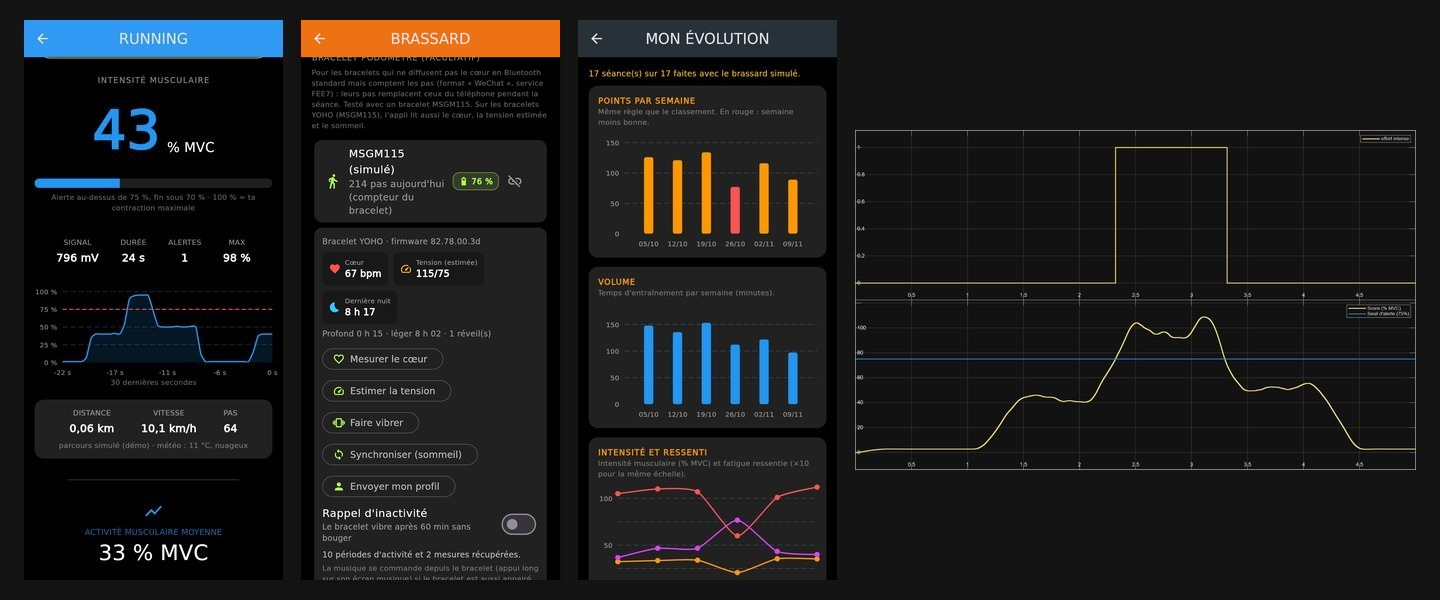
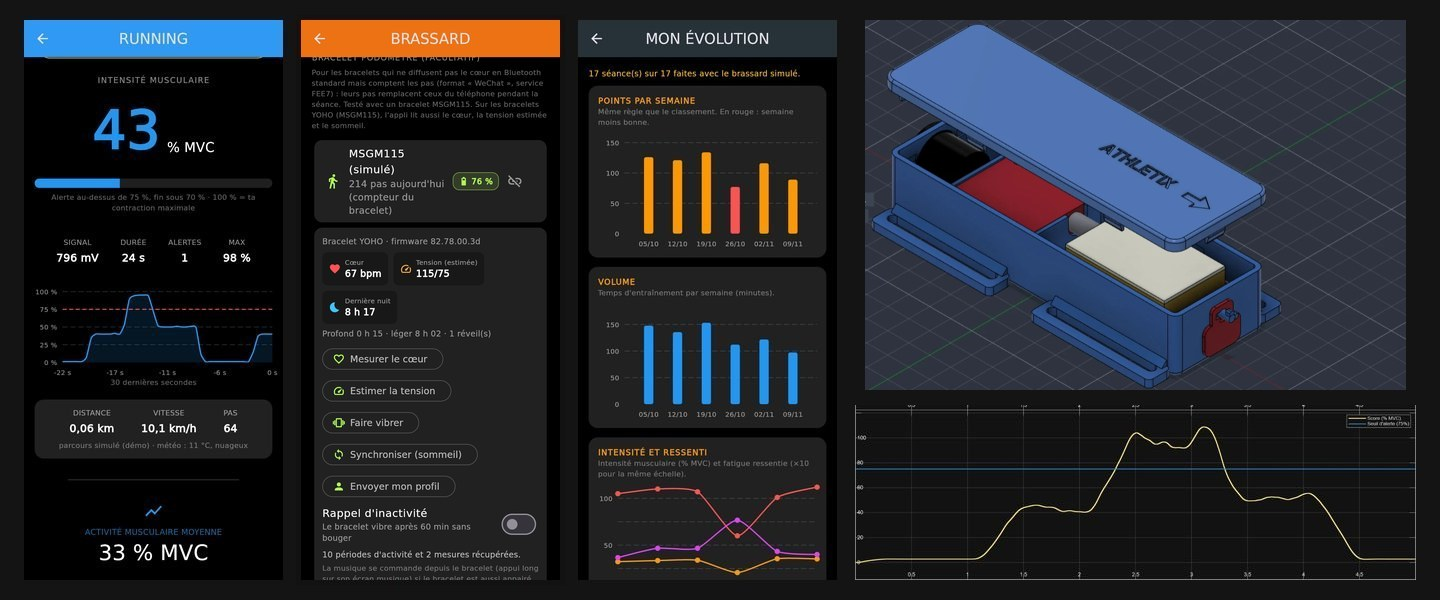
Carte Athletix-Data : image avec le boîtier sous Fusion 360 ; fiche projet à jour

diff --git a/index.html b/index.html
@@ -809,7 +809,7 @@
           </div>
         </article>
         <article class="project-card project-card--wide" data-tags="electronique sante embarque">
-          <div class="card-media card-media--fit"><img src="assets/projets/athletix-data.jpg" alt="Trois écrans de l'application Athletix-Data (séance en direct, montre MSGM115 reliée, évolution) et résultat de la simulation Simulink du brassard EMG" data-i18n-attr="alt:p9.img" width="1440" height="600" loading="lazy" decoding="async"></div>
+          <div class="card-media card-media--fit"><img src="assets/projets/athletix-data.jpg" alt="Trois écrans de l'application Athletix-Data (séance en direct, montre MSGM115 reliée, évolution), le boîtier du brassard sous Fusion 360 et le résultat de la simulation Simulink" data-i18n-attr="alt:p9.img" width="1440" height="600" loading="lazy" decoding="async"></div>
           <div class="card-top">
             <span class="card-type" data-i18n="tag.electronics">Électronique</span>
             <span class="card-date" data-i18n="p9.date">Juin 2026</span>

diff --git a/traduction-anglais.js b/traduction-anglais.js
@@ -382,7 +382,7 @@ window.I18N_EN = {
   'p20.img': 'Bearing verdict and life curve',
   'p21.img': 'Wing deformed shape coloured by stress, with support reactions',
   'p7.img': 'Pharmacy back-office dashboard (demo)',
-  'p9.img': 'Three Athletix-Data app screens (live session, connected MSGM115 watch, progress) and the Simulink simulation result of the EMG armband',
+  'p9.img': 'Three Athletix-Data app screens (live session, connected MSGM115 watch, progress), the armband enclosure in Fusion 360 and the Simulink simulation result',
   'p8.img': 'SantéConnect patient area (demo)',
   'p6.img': 'Hand tracking demo page',
   'p10.img': 'Reference signal, distorted signal and FFT spectrum (demo)',

diff --git a/FICHE-PROJET.md b/FICHE-PROJET.md
@@ -132,7 +132,7 @@ Images des cartes (nov. 2026, demandé par Valentin pour alléger) : chaque cart
 - [x] Bulle « Énergie » (nov. 2026, demandée par Valentin ; clé tag.energy, data-filter « energie », placée après Électronique) : génératrice d'éolienne (p38) + bobine Tesla (p17). Compteur de projets en haut à gauche de la barre : proposé puis REFUSÉ par Valentin (ne pas le remettre).
 - [x] Nov. 2026 (demandé par Valentin) : bulle « Embarqué » (clé tag.embedded, data-filter « embarque », DERNIÈRE après Web) = projets avec code sur microcontrôleur : transporteur (p32), balnéo (p33), truites (p35), maison connectée (p43), éolienne (p38), Athletix ESP32 (p9). Titre « 02 Projets » : nombre total de cartes au bout de la ligne (discret, gris mono, calculé par script.js via data-count, aligné sur le bord droit de la grille) — pour Valentin, pas d'intitulé.
 - [ ] Athletix-Data = en réalité projet de groupe MESPI (EPISEN, 4 membres, fév.–juin 2026) ; version FINALE = brassard EMG : MyoWare 2.0 + Link Shield + SparkFun Thing Plus ESP32-S3 + LiPo 1500 mAh + BLE + appli Flutter (devis final et compte rendu jalon 4 fournis par Valentin, nov. 2026). Nov. 2026, DÉCISION DE VALENTIN (« c'est un truc propre ») : les NOMS de l'équipe sont affichés (exception à la règle « ne jamais nommer ») : Valentin Auger, Maxence Olivier, Othmen Al Bydeoi (3 = couverture du compte rendu et devis ; Akram Boutabaa, cité dans le corps du compte rendu, RETIRÉ car absent de la couverture). Fait : README du dépôt (équipe + rôles, brassard final, historique PPG, hardware/simulation-emg/ avec figure + limites + corrections prévues ; version CORRIGÉE vérifiée dans le .slx du Drive (dossier « AthletixData_EMG_Simulation(1).slx », décompressé) : Ts 0,0005, Cov 7,1e-9, passe-bande, Lookup 0,95, gain 1000, secteur 0,00008, Relay 75/70 ; page simulation-emg/ réécrite (figure resultat-simulation-corrigee.png recadrée d'une capture, ancienne figure gardée en historique) et image de carte mise à jour ; fichier .slx FINAL publié (hardware/simulation-emg/AthletixData_EMG_Simulation.slx, R2026b, reconstruit depuis le dossier décompressé du Drive, tailles vérifiées) ; présenté comme une EXPÉRIMENTATION (modèle d'essai, pas une mesure sur le brassard), à la demande de Valentin ; figure en meilleure résolution + schema-modele.png ajoutés le 12 nov. 2026) ; README : encadré « Rencontre avec une patiente atteinte de sclérose en plaques » (FR/EN) : entretien avec une patiente (JAMAIS nommée) à l'initiative d'un médecin retraité spécialiste de la SEP ; ses suggestions n'avaient pas été notées → pistes RÉDIGÉES APRÈS COUP et dites comme telles (fatigue / fréquence médiane, chaleur, calibration quotidienne, spasmes et asymétrie, accessibilité, carnet pour les soignants) + « pas un dispositif médical ». Nom du médecin : JAMAIS publié (décision FINALE de Valentin, 13 nov. 2026 : il n'a aucun moyen de le contacter ; ne plus le proposer). Contributeur « claude » encore affiché dans la barre latérale du dépôt alors que l'historique est propre (API contributors = Valentin seul, 7 commits) : cache GitHub ; le changement de branche par défaut est refusé à la session cloud → FAIT par Valentin le 12 nov. 2026 (branche par défaut recalcul puis main, branche recalcul supprimée) : « claude » a disparu de la liste ; seul le chiffre « 2 » reste (cache GitHub, l'API elle-même était en retard : 7 commits comptés sur 10) → attendre, sinon support GitHub. 12 nov. 2026, relecture de l'appli transmise par Valentin → corrigé et démo recompilée (Flutter 3.47.9 installé dans /opt/flutter-dl de la session ; canvaskit chargé depuis gstatic comme avant ; balises og: remises à la main dans docs/index.html après chaque build) : conseils sans contradiction (nombre de séances UNIQUEMENT dans la carte « Rythme » : niveau + fréquence déclarée ; Débutant 2–3, Intermédiaire 3–4, Pro 4–6), poids/taille utilisés (IMC avec virgule, protéines 1,6–2 g/kg, alerte perte de poids si IMC < 18,5), questionnaire PRÉ-REMPLI à la mise à jour, « Changer de compte » → écran de connexion / « Se déconnecter » → page d'accueil, WorkoutSession supprimé, moteurs GPS/gyro remplacés par des mesures EMG (valeurs d'exemple), icône batterie par paliers, descriptions des catégories générées depuis la liste (aviron, apnée déplacée en Milieu aquatique). Testé avec Playwright. Schéma « câblage présumé » (hardware/cablage-presume.svg + .png, rendu par Playwright) ajouté au README (partie FR, au-dessus du schéma Simulink), dessiné d'après la LISTE des composants du devis (le devis lui-même n'est PAS publié) : électrodes SEN-12969 → MyoWare 2.0 + Link Shield → jack 3,5 mm → Thing Plus ESP32-S3 (A0, 3V3, GND) ; LiPo 1500 mAh → DS12LR → prise JST ; BLE → téléphone ; « non testé, matériel pas encore reçu » ; inverseurs GR33/GA55 et résistances 150 Ω non représentés (usage inconnu) ; câble Qwiic = I2C, ne transporte pas le signal. 12 nov. 2026 : contribution d'Othmen (Othmen94, collaborateur) : architecture BLE/GATT, MCD/MLD/MCT, migration SQL, save_seance/save_calibration.php, brassard simulé dans l'écran de séance, firmware de test faux-brassard-ble, 13 tests ; relue (compile, tests OK, aucun secret), PR #1 FUSIONNÉE (avance rapide poussée par la session, le bouton de contournement ne marchait pas chez Valentin) ; Othmen a remplacé son Gmail par son adresse noreply avant la fusion ; démo recompilée. Verrou : exception « Othmen/* » GARDÉE volontairement (décision de Valentin) pour qu'Othmen puisse proposer d'autres branches othmen/… ; main et le reste restent verrouillés, seul Valentin (admin) fusionne. Branche othmen/architecture-ble supprimée par Valentin. Contributeurs = 2 (Valentin + Othmen), voulu. Images de la simulation affichées UNE fois sur la page principale (partie FR), pas dans la partie EN (demandé par Valentin), toujours sur la page simulation-emg/ et carte p9 (« Juin 2026 », titre brassard EMG, « Ma partie… », clé projects.contextTeam « Projet de groupe · EPISEN, 3 étudiants », image = écrans de l'appli + figure Simulink). 12 nov. 2026 (soir), à la demande de Valentin (« fais les 17 tâches sans le matériel ») : FAIT 11/17 → API testée sur MariaDB réelle (tests/api/test_api.sh, 41 vérif., garde ATHLETIX_TEST=1 car il vide la base), get_seances.php, score classement (10 + min × moy/50, 30 j, simulées exclues — PROPOSITION à valider), migration 002 (DROP performances + hardware_status, get_hardware lit brassards, champ batterie), BrassardBle (flutter_blue_plus 2.3.14, License.nonprofit, web + Android), écrans Brassard / Calibration / Mes séances / consentement (shared_preferences 2.5.6), projet android/ (fr.athletixdata.athletix_data, permissions BLE, cleartext pour XAMPP) — APK NON compilé (dl.google.com bloqué), firmware final hardware/firmware-brassard/ (calcul_emg.h testé g++ 27 vérif. ; .ino vérifié avec imitations, PAS compilé ESP32 : outils Arduino bloqués), fiches SparkFun vérifiées via recherche web (A0 = GPIO10, MAX17048 0x36 GPIO8/9, Link Shield interrupteur ENV, jack pointe/bague/corps, câble TRS vendu à part) → faux brassard corrigé GPIO1 → GPIO10, schéma mis à jour, hardware/PROTOCOLE-DE-TEST.md, liste de pièces à compléter. Décision : web pour la démo, Android (Android Studio) pour le vrai brassard. Restent : valider le score, tester faux brassard sur ESP32, compléter la commande, boîtier, Gantt (Maxence), rapport jalon 1 (compte rendu jalon 4 de 1re année fourni par Valentin, en scratchpad mespi/, NE PAS publier : noms dont Akram, 4 membres). ⚠ Le PDF « compte rendu jalon 4 » de Maxence n'est PAS un rendu : brouillon personnel fait à l'arrache pour comprendre le projet (dit par Valentin) ; le VRAI jalon 4 = le fichier Excel du devis. Ne pas s'en servir comme référence ni pour attribuer des tâches (son contenu technique vient de Valentin). MPM = Valentin (confirmé), Gantt = Maxence. Pièces manquantes (câble jack, embase, électrodes) : commande déjà passée, impossible d'ajouter → solutions documentées sans achat : câble audio stéréo 3,5 mm TRS recyclé, coupé et soudé (kit WTS100 du devis), électrodes ECG à pression standard (pharmacie / salle de TP). README : lien « 📋 Feuille de route » tout en haut (FR + EN). Feuille de route §4 « Compléter l'application » (GPS, accéléromètre, météo, ceinture cardio BLE 0x180D car l'EMG biceps ne mesure pas le cœur, graphiques, fatigue, contexte de séance, tableau des pistes SEP : 2/7 faites) ; proposé à Valentin de coder la partie graphiques + contexte en premier. FAIT le 12 nov. 2026 (soir, « on va tout faire d'un coup ») : §4 codé (commit c2bbcc8) = courbe en direct 30 s, détail de séance (courbe 5 s, zones, contractions, GPS, cœur, météo, ressenti, indice de fatigue EXPÉRIMENTAL expliqué), Mon évolution (points/volume par semaine, intensité + fatigue ressentie, records, semaines moins bonnes ≥ 15 % avec causes tirées du ressenti), ressenti après séance (fatigue/douleur 0–10, sommeil, commentaire), GPS + pas (geolocator, sensors_plus ; parcours INVENTÉ en démo, dit), météo Open-Meteo (CC BY 4.0, position arrondie ~1 km), ceinture cardio 0x180D (écran Brassard), Réglages (grands caractères, vibration, voix flutter_tts, mode adapté 60/55 %, pause 10 min, chaleur > 25 °C), export CSV soignants (share_plus) ; migration 003, API 49 vérif., 47 tests Flutter ; démo : 6 semaines fictives dont la 4e moins bonne ; testé dans le navigateur seulement (GPS/capteurs/vibration à essayer sur Android). PUIS (12 nov. 2026, soir, « rendre l'application quasiment finie ») : commits 1e0347e + 5bd2161 = natation (firmware 1.1 : commandes 0x05/0x06, caractéristique abad0005 « résumé hors ligne », arrêt auto après 5 min < 10 %, effacement seulement après enregistrement ; copie Dart du calcul = MÊMES octets que le C++, testé ; brassard simulé accéléré ×60 ; prototype NON ÉTANCHE, dit partout, test à sec ajouté au protocole étape 7), tracé GPS coloré par l'intensité (sans les 200 premiers/derniers mètres, aucun service de cartes) + vitesse/intensité le long du parcours, séries en muscu, envoi différé sans réseau (client_uuid, fin_il_y_a_s), objectif de la semaine sur l'accueil, carnet PDF (package pdf, Apache 2.0) + CSV, RGPD (export_donnees.php, supprimer_compte.php, écran « Mon compte et mes données »), migration 004, tests GitHub Actions (application, API sur MariaDB 11.4, firmware) VERTS + badge, tools/build_web.sh (anti-cache ?v= : Valentin croyait que la démo n'était pas à jour = cache navigateur), démo datée jusqu'au jour même (semaine en cours visible). Compteurs : 67 tests Flutter, 68 vérif. API, 41 firmware. FEUILLE-DE-ROUTE.md REFAITE (où en est le projet, ce qui est fait, reste sans matériel, réception, finaliser, plus tard, pistes SEP, répartition) ; README à jour (FR + EN, 5 nouvelles captures). Rapport du jalon 1 : à rendre le LUNDI 16 NOV. 2026 (Valentin veut le faire après, pas tout de suite). ENSUITE (12–13 nov. 2026, Valentin : « je te valide tout ») : règle de score VALIDÉE (docs + code) ; schéma de câblage complété (capteur posé sur le biceps, électrodes MID/END clipsées sous la carte d'après le guide SparkFun, électrodes ECG standard, câble audio recyclé 3 contacts, ⚠ polarité JST, pas étanche) ; APK compilé et publié par GitHub Actions (workflow apk.yml, release « apk » : github.com/Valentin-Auger-Laboratoire/athletix-data/releases/tag/apk, 59 Mo, clé de debug ; variable de dépôt API_BASE_URL pour un vrai serveur) ; Gantt REFAIT par la session (gestion-projet/gantt.xlsx modifiable + 2 PNG : année 1 = plan A–I du Gantt de Maxence + statut, année 2 sept. 2026 → janv. 2027 ; livraison et soutenance À CONFIRMER, soutenance supposée 29 janv. 2027) ; relecture de sécurité (doublon simultané rattrapé, isolation entre comptes testée, injection CSV neutralisée, limites connues écrites dans INTEGRATION.md) → 77 vérif. API, 68 tests Flutter ; carte p9 du portfolio mise à jour (texte FR/EN + image : séance, parcours, évolution + figure Simulink). Le nom du médecin ne sera JAMAIS publié. 13 nov. 2026 (« vas-y ») : mesures/ = comparaison automatique vrai brassard / simulation (firmware JOURNAL_SERIE → lignes « M,ms,mV,RMS,%,alerte » sur l'USB, capturer.py, comparer_simulation.py : alignement par corrélation sur tout l'enregistrement, critères du protocole, figure + rapport ; exemple sur données SIMULÉES de la sortie ENV ; 12 tests Python dans la CI) ; gestion-projet/analyse-des-risques.md (G×O×D ; priorités : eau 32, PC portable DÉBRANCHÉ DU SECTEUR pendant une capture USB avec électrodes 24, polarité batterie 18, données/jeton 18) ; vidéo de démo media/demo-application.mp4 + .gif (70 s, dans le README FR) ; bug trouvé par la vidéo et corrigé : après enregistrement, la séance est ouverte par son numéro (getSeance(id)) et non « la plus récente » (une natation longue n'était pas la première) → 69 tests Flutter. Puis : comparaison affichée sur la page principale avec « Outil réalisé par Valentin Auger » (demandé) ; MODE D'EMPLOI 2 pages (mode-emploi/mode-emploi.pdf, généré par tools/mode_emploi.dart avec le package pdf, même mise en page que le carnet ; sécurité, pose des électrodes avec illustration pose-electrodes.svg, calibration, séance, natation à sec, carnet soignant, problèmes fréquents ; aperçus des 2 pages dans le README FR, crédité à Valentin). Valentin veut voir chaque nouveauté DIRECTEMENT sur la page principale du README (pas seulement en lien) et que ce soit crédité à son nom. 13 nov. 2026 (validé 1 à 3) : menu « Mode d'emploi » dans l'appli (url_launcher 6.3.1, ouvre le PDF sur GitHub ; <queries> https dans le manifeste) ; hardware/boitier/ = cahier des charges (Thing Plus 58,4 × 22,9 ; MyoWare et Link Shield 37,6 × 35,9 ; batterie THYM-BAT 47 × 29 × 10 mm JST-PH avec protection ; DS12LR = interrupteur rond Ø 20,5 mm, 16 mm de profondeur, AVEC VOYANT → les résistances 150 Ω du devis servent sans doute au voyant ; boîtier ≈ 72 × 66 × 27 mm, interrupteur sur la paroi à côté de la batterie ; version étanche : joint, presse-étoupe PG7, interrupteur intérieur ou ILS ; cotes « à vérifier », gotronic.fr bloqué par le proxy) + implantation.svg/png à l'échelle ; hardware/fiche-de-test.pdf générée DEPUIS le protocole par tools/fiche_test.dart (cases à cocher, colonnes vides, champs date/testeur/n° de série, étapes insécables) ; protocole corrigé (firmware 1.1.0). Version anglaise de l'appli : REFUSÉE. 13 nov. 2026 (après-midi, « un max de code » sans ESP32) : FIRMWARE 1.2 = source RAW (interrupteur OUTPUT du Link Shield sur RAW, vérifié dans le guide SparkFun), 2 kHz, FFT maison + fréquence médiane (calcul_fatigue.h, tâche FreeRTOS sur le cœur 0, files FreeRTOS), caractéristique abad0006, commande 0x07, erreur 5 = interrupteur resté sur ENV ; appli : choix « Brut + fatigue » (écran Brassard), fatigue en direct, baisse en fin de séance (suivi_fatigue.dart, moindres carrés), courbe dans le détail, fatigue par semaine dans l'évolution, colonnes PDF/CSV ; serveur migration 005 ; copie Dart = même MDF que le C++ (142,21 Hz) ; FIRMWARE COMPLET EXÉCUTÉ SUR ORDINATEUR avec imitations des bibliothèques ESP32 (tests/firmware/imitations/, test_firmware_complet.cpp, aussi sous ThreadSanitizer, qui a révélé un échange non protégé entre cœurs, corrigé) ; APPAIRAGE CHIFFRÉ (securite.h, APPAIRAGE_SECURISE = 0 par défaut, code 6 chiffres tiré au hasard en NVS, commandes série CODE/OUBLIER/NOUVEAU, appli : saisie du code + createBond, SECURITE.md, étape 9 du protocole) ; FOND DE CARTE OpenStreetMap (projection écrite à la main, désactivé par défaut, tile.openstreetmap.org bloqué dans la session → vérifié avec une fausse tuile) ; LIMITE DES ESSAIS côté serveur (migration 006) ; mesures/analyser_fatigue.py ; fiche de test = 4 pages (étapes 8 fatigue et 9 appairage). Compteurs : 92 tests Flutter, 93 vérif. API, firmware 42 + 34 + 15 + 38. README : sections « Mesurer la fatigue » et « Liaison Bluetooth chiffrée » avec captures, créditées à Valentin. Carte p9 du portfolio complétée (fatigue + appairage). Base MariaDB de la session réinitialisée (fichiers corrompus après la mise en veille). 13 nov. 2026 : Valentin considère le code d'Athletix-Data TERMINÉ en attendant le matériel ; second brassard (comparaison gauche/droite) NON RETENU (pas assez de matériel commandé) → ne plus le proposer. Prochaine étape : rapport du jalon 1 (à rédiger à partir du 14 nov., rendu lundi 16 nov.). 13 nov. 2026 (soir) : ajouts « prêt pour le vrai brassard » : reconnexion automatique BLE pendant une séance (30 s, relance DEMARRER), avertissements du brassard en séance (batterie + vibration, saturation, interrupteur ENV), rappel de calibration avant la séance (non calibré depuis l'allumage ou > 4 h), MONTRE de Valentin : reliée comme une ceinture si elle diffuse sa FC en Bluetooth standard 0x180D (aide par marque dans l'écran Brassard ; Apple/Galaxy Watch/Fitbit : pas sans appli) — montre de Valentin = bracelet MSGM115 (« YOHO » au démarrage, puce Maxscend, famille « 115 Plus ») : PAS de service cardio standard ; services HID clavier, FD00, FFE0, FEE7 (WeChat), CC00 ; PAS décodés (FEA1 = 01 + 3 octets LE, 80 pas vérifiés) et codés (montre_podometre.dart, section « Bracelet podomètre » de l'écran Brassard, pas du bracelet prioritaires pendant la séance) ; CŒUR et MUSIQUE non décodés : la montre ne les envoie pas sans son appli d'origine (FD02 = paquet fixe 10-01-4B-2A-04-02-00-78-00-00 à la connexion) → prochaine étape possible : journal HCI Bluetooth d'Android + appli d'origine (nom à confirmer, sans doute « YOHO Sports ») ; tension « mmHg » = estimation, pas une mesure ; protocole étapes 6.5–6.9 ; 99 tests Flutter. 13 nov. 2026 (nuit) : Yoho Sports installé par Valentin sur son Huawei P40 lite (paquet com.uthink.ring) ; journal HCI introuvable sur Huawei (zone protégée) → APK récupéré par adb et DÉCOMPILÉ AVEC SON AUTORISATION EXPLICITE (compatibilité, directive 2009/24/CE art. 6 ; APK seulement dans le scratchpad, RIEN du code d'origine publié) : service CC00 (CC02 infos, CC03 batterie, CC04 messages, CC06 commandes ; FD00 = OTA) → protocole_yoho.dart + montre_yoho.dart + panneau dans l'écran Brassard (cœur 0A 01, tension estimée F1 03 14 01, sommeil via synchro F4, vibration 08 01, profil F1 01, inactivité 07) + cœur du bracelet en séance sans ceinture ; 15 tests (114 Flutter), architecture/BRACELET-YOHO.md, commit 34a49a7 ; PAS ENCORE ESSAYÉ avec le bracelet (à faire avec l'APK). Musique = clavier Bluetooth HID (appui long), rien à coder. 13 nov. 2026 : README d'athletix-data = section « 📄 Documents pour les essais (réalisés par Valentin Auger) » JUSTE APRÈS le tableau de l'équipe (mode d'emploi, fiche de test, cahier des charges du boîtier, chacun avec image) + ligne de liens tout en haut (Valentin ne les trouvait pas quand ils étaient plus bas) ; feuille de route mise à jour (version anglaise « non retenue », boîtier = cahier des charges fait, modèle Fusion 360 à faire). Diapos de soutenance : bien plus tard (jalons 1, 2, 3 puis jalon final = soutenance) → la date « soutenance 29 janv. 2027 » du Gantt est une supposition à corriger quand Valentin aura les dates des jalons. 13 nov. 2026 : schéma refait avec le câble jack DESSINÉ (prise femelle du Link Shield, fiche mâle, câble, 3 soudures A0/3V3/GND, zoom sur la fiche) — Valentin avait remarqué qu'il était seulement écrit ; Gantt affiché aussi dans le README principal (partie FR, liens gardés) ; hébergement de l'API : Valentin le fera sur son PC portable avec XAMPP + ngrok (comme pour la téléconsultation) → section « Héberger l'API sur son PC » du README (domaine fixe gratuit ngrok, variable de dépôt API_BASE_URL, relancer le workflow APK). 13 nov. 2026 (nuit) : batterie de la montre et de la ceinture cardio (service standard 0x180F ou CC03 YOHO) sur l'accueil, les cartes et en séance, alerte à 15 % (119 tests Flutter) ; documents remis à jour : Gantt (firmware 1.2, montre, boîtier « fichier à fournir par Valentin »), mode d'emploi (section 6 montre), protocole + fiche de test (étape 10 montre, faisable sans brassard ; fiche = 5 pages), feuille de route, analyse des risques (montre), nouvelle vidéo de démo (montre + fatigue), carte p9 du portfolio (écran montre à la place du parcours), compte rendu du jalon 1 (ligne montre, documents, à faire, Gantt). Boîtier Fusion 360 : EN ATTENTE du fichier de Valentin (export STEP/STL du design « v1 »). Restent (plus tard) : vraie fatigue (RAW), capteur de température, 2e brassard, fond de carte, HTTPS/appairage, version anglaise. FEUILLE-DE-ROUTE.md (12 nov. 2026, demandée par Valentin : matériel commandé par l'école seulement en nov. alors que demandé en juin, livraison dans 1 mois au plus tôt) = état du projet, à faire SANS le matériel, à la réception, pour finaliser, répartition proposée ; résumé « Où en est le projet » dans le README (FR + EN). Gantt = Maxence, MPM = Valentin. RÔLES (dit par Valentin, 12 nov. 2026) : VALENTIN = CHEF DE PROJET (pas Maxence, qui ne faisait rien) + tout le reste (application Flutter, API PHP/MySQL, câblage, ESP32, documentation) ; Maxence = uniquement la simulation Simulink ; Othmen = architecture BLE et ses ajouts du dépôt. README (tableau équipe FR/EN) et carte p9 (FR/EN, « dont j'ai été le chef de projet », brassard simulé) mis à jour. Simulation Simulink (AthletixData_EMG_Simulation.slx, Drive) faite par MAXENCE OLIVIER (dit par Valentin, 12 nov. 2026) : créditée dans le README (ligne de Maxence dans le tableau de l'équipe, paragraphe du brassard, page simulation-emg/, FR et EN). Revue faite (nov. 2026) : bruit Ts 0,1 s (escalier 10 Hz, pics dus au hasard) → Ts 0,0005 + passe-bande 20–450 Hz + profil d'effort (Lookup) + gain MyoWare ×1000 ; alerte = intensité (pas fatigue) → Relay 75/70 ; MVC 1,85 V supposée ; corrections du compte rendu (fatigue, chiffres, ESP32 DevKit vs S3, 1000 vs 1500 mAh, Link Shield ≠ I2C). JAMAIS publier le devis ni le compte rendu (noms des coéquipiers), ni les captures MATLAB Online (identifiant de compte).
-- [x] Boîtier d'Athletix-Data (14 nov. 2026) : modèle CadQuery fait par la session (hardware/boitier/modele/boitier.py, fichiers STEP/STL, notice-boitier.pdf, images), crédité à Valentin. Un seul boîtier long et fin, SANS VIS (rien de commandé) : couvercle à 7 clips, carte tenue par pions + doigts du bac, jupe + bouchon USB-C (retenu par un pion à tête fendue en 4, idée de Valentin) contre la pluie, PAS étanche ; interrupteur au bout côté coude ; 2 brassards du devis (40 × 5 cm, scratch) par-dessus le couvercle, passants symétriques renforcés ; boucle 3 barres de secours ; pose : flèche/USB vers l'épaule, électrodes sous le boîtier ; 2 versions (DS12LR / GR33-GA55). Mode d'emploi et fiche de test à jour. Étude RDM FAITE (14 nov. 2026, hardware/boitier/rdm/ + page interactive web/boitier-rdm/ publiée avec la démo : valentin-auger-laboratoire.github.io/athletix-data/boitier-rdm/ ; web/ est copié dans docs/ par le build Flutter) : 3 points faibles du premier modèle corrigés (clip 1,2→1,0 mm + bec 0,65 ; barre du passant 1,2×3 → 4×3,5 mm ; pion fendu → baïonnette à détrompeur, 2 ailes, bouchon enfilé retourné AVANT de poser le couvercle) ; tests Python/JS dans la CI. Valentin fera ensuite les captures Fusion 360 de la version finale (à publier comme SES vues). Ancienne note : Sur le SSD : le dossier myoware_pregnancy est un modèle d'une autre personne (SolidWorks 2017, 2019, GrabCAD ?) → NE PAS publier ; « v1 (Assemblage).step » = 2,8 Ko, vide (composants liés). Son vrai travail est dans le cloud Autodesk (« v1 », « v1 (Assemblage) », « ESP32 dev Kit v1 », 15 mai 2026) : rompre les liens ou exporter le design « v1 » seul (STEP > 100 Ko + STL).
+- [x] Boîtier d'Athletix-Data (14 nov. 2026) : modèle CadQuery fait par la session (hardware/boitier/modele/boitier.py, fichiers STEP/STL, notice-boitier.pdf, images), crédité à Valentin. Un seul boîtier long et fin, SANS VIS (rien de commandé) : couvercle à 7 clips, carte tenue par pions + doigts du bac, jupe + bouchon USB-C (retenu par un pion sans ficelle, idée de Valentin ; d'abord tête fendue en 4, remplacé par une baïonnette après la RDM) contre la pluie, PAS étanche ; interrupteur au bout côté coude ; 2 brassards du devis (40 × 5 cm, scratch) par-dessus le couvercle, passants symétriques renforcés ; boucle 3 barres de secours ; pose : flèche/USB vers l'épaule, électrodes sous le boîtier ; 2 versions (DS12LR / GR33-GA55). Mode d'emploi et fiche de test à jour. Étude RDM FAITE (14 nov. 2026, hardware/boitier/rdm/ + page interactive web/boitier-rdm/ publiée avec la démo : valentin-auger-laboratoire.github.io/athletix-data/boitier-rdm/ ; web/ est copié dans docs/ par le build Flutter) : 3 points faibles du premier modèle corrigés (clip 1,2→1,0 mm + bec 0,65 ; barre du passant 1,2×3 → 4×3,5 mm ; pion fendu → baïonnette à détrompeur, 2 ailes, bouchon enfilé retourné AVANT de poser le couvercle) ; tests Python/JS dans la CI. 13 captures Fusion 360 de Valentin (version finale) publiées dans hardware/boitier/images/fusion/ (10 sur la page principale du README), créditées à lui ; section « Étude RDM (réalisée par Valentin Auger) » dans le README ; carte p9 : phrase boîtier + RDM (FR/EN) et image avec sa vue Fusion 360 à la place de la moitié haute de la figure Simulink ; Gantt / feuille de route / risques à jour. Ancienne note : Sur le SSD : le dossier myoware_pregnancy est un modèle d'une autre personne (SolidWorks 2017, 2019, GrabCAD ?) → NE PAS publier ; « v1 (Assemblage).step » = 2,8 Ko, vide (composants liés). Son vrai travail est dans le cloud Autodesk (« v1 », « v1 (Assemblage) », « ESP32 dev Kit v1 », 15 mai 2026) : rompre les liens ou exporter le design « v1 » seul (STEP > 100 Ko + STL).
 - [ ] SSD externe de Valentin (X:\PROJET111, ~2 300 fichiers, inventaire fait par une session LOCALE sur son PC, nov. 2026). Projets STI2D / CPGE / perso. Valentin : TOUT est son travail ; les prénoms dans les fichiers (« Quentin », « Kumaran », « valentin_quentin »…) sont ceux de personnes à qui il a PRÊTÉ ses fichiers → les RETIRER avant publication (vie privée), sans remettre en cause la paternité. Exclure seulement les composants standard téléchargés (bibliothèques SolidWorks, libraries Arduino) et ne pas citer de nom de prof. Candidats : voiture / transporteur autonome (STI2D 2022, priorité), balnéothérapie (STI2D Tle), support de téléphone découpe laser, détecteur, plateau, badge RFID, TP Arduino/LCD/imprimante 3D, synthèse MaxPID (TSI), les différents TIPE (sauf celui de la lampe). ⚠ MÉDIAS (nov. 2026, décision FINALE de Valentin, après plusieurs revirements) : ses photos et vidéos d'origine PEUVENT être publiées s'il n'y a AUCUN VISAGE (montages, câblage, mains : OK). Visage visible (ex. photos/vidéo du tir au basket) : JAMAIS. Il revérifiera ensuite et pourra demander d'en retirer. Schémas redessinés (SVG) bienvenus en plus. AUGER VALENTINJ.pdf = projet basket (pas un CV), AUGER.pdf.pdf = pistes de sujets (pas un CV). Ancienne note — Possibles CV : TSI ET AUTRE/AUGER VALENTINJ.pdf et AUGER.pdf.pdf (à vérifier, sûrement anciens).
 - [x] Projet réseau : POC téléradiologie (voir projet 13). Option : homelab perso (domotique / NAS) plus tard.
 - [x] Déployer sur GitHub Pages
